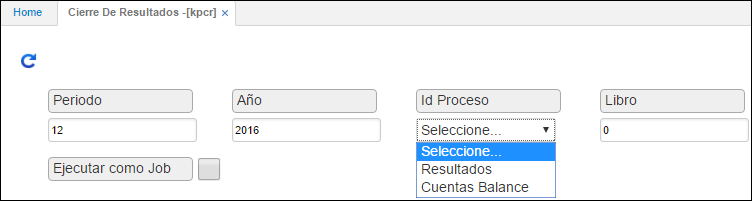
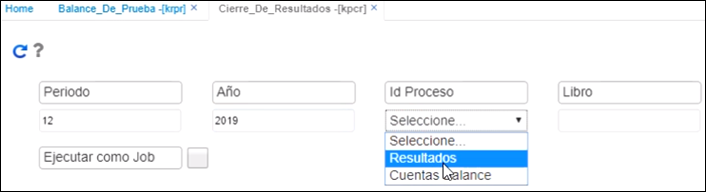
actualizacion de documento kpcr

diff --git a/Operacion/erp/contabilidad/kproceso/kpcr.md b/Operacion/erp/contabilidad/kproceso/kpcr.md
@@ -5,20 +5,19 @@ permalink: /Operacion/erp/contabilidad/kproceso/kpcr
 editable: si
 ---
 
-## Cierre de Resultados - KPCR
+# Cierre de Resultados - KPCR
 
-En esta opción se realiza el cierre de resultados al finalizar el ejercicio, pero para ello es necesario realizar una serie de parametrizaciones básicas que se describen a continuación.  
+La opción Cierre de Resultados se realiza  al finalizar el cierre de año, pero para ello es necesario realizar una serie de parametrizaciones básicas que se describen a continuación.  
 
-Para esto, dentro de la aplicación **BCUE - Cuentas** es necesario buscar las cuentas de utilidad y perdida del ejercicio, generalmente dentro del plan de cuentas para comerciantes estas cuentas son la 3605 y la 3610 respectivamente.  
+Para esto, dentro de la aplicación [**KRPR - Balance de prueba**](http://docs.oasiscom.com/Operacion/erp/contabilidad/kreporte/krpr) es necesario buscar las cuentas de ingresos, costos y gastos del balance de prueba, ya que generalmente estas se encuentran aun con saldo.  
 
-Una vez encontremos o agreguemos las cuentas de utilidad y perdida del ejercicio _–recuerde que el nivel de las mismas depende de la política contable de su empresa, sobre todo para definir la imputación de estas cuentas-_ es muy importante fijarse que estas cuentas estén marcadas con el ítem de utilidad en el campo utilidad, ubicado en la zona derecha de la tabla de cuentas contables **BCUE - Cuentas**.  
+![](Balance1.png)
 
-Cuando se hayan hecho las modificaciones y guardado los cambios correspondientes es el momento de cerrar el año, para esto se ejecuta el proceso de cierre de resultados **KPCR**.  
+Para proceder a realizar el cierre, se ejecuta el proceso de cierre de resultados en la aplicación **KPCR - Cierre de Resultados**.  
 
 Al ingresar a esta aplicación, se despliega una ventana como la que se muestra a continuación:  
 
 ![](KPCR.png)
-
 
 Se deberá ingresar la siguiente información:  
 
@@ -27,3 +26,8 @@ Se deberá ingresar la siguiente información:
 **Proceso:** seleccionar de la lista desplegable el proceso al cual se le realizará cierre (Cierre de resultados o cierre de cuentas de balance).  
 **Libro:** Ingresar el libro al cual se le realizará el cierre, 1 para libro IFRS y 0 para el libro contable local. Tener en cuenta que se debe realizar el cierre en los dos libros contables.  
 
+Luego de llenar los campos correspondientes damos clic ![](ejecutar.png) y ejecutamos el proceso. 
+
+El sistema nos genera un documento en el [KMOV - Movimientos](http://docs.oasiscom.com/Operacion/erp/contabilidad/kmovimient/kmov). Luego de realizar el cierre el la aplicación **KMOV - Movimientos** se procede a consultar el [KRPR - Balance de Prueba](http://docs.oasiscom.com/Operacion/erp/contabilidad/kreporte/krpr), las cuentas gastos, ingresos, costo de ventas y costo de prodicción ya nos aparecen cerradas o en cero. 
+
+![](Balance.png)
